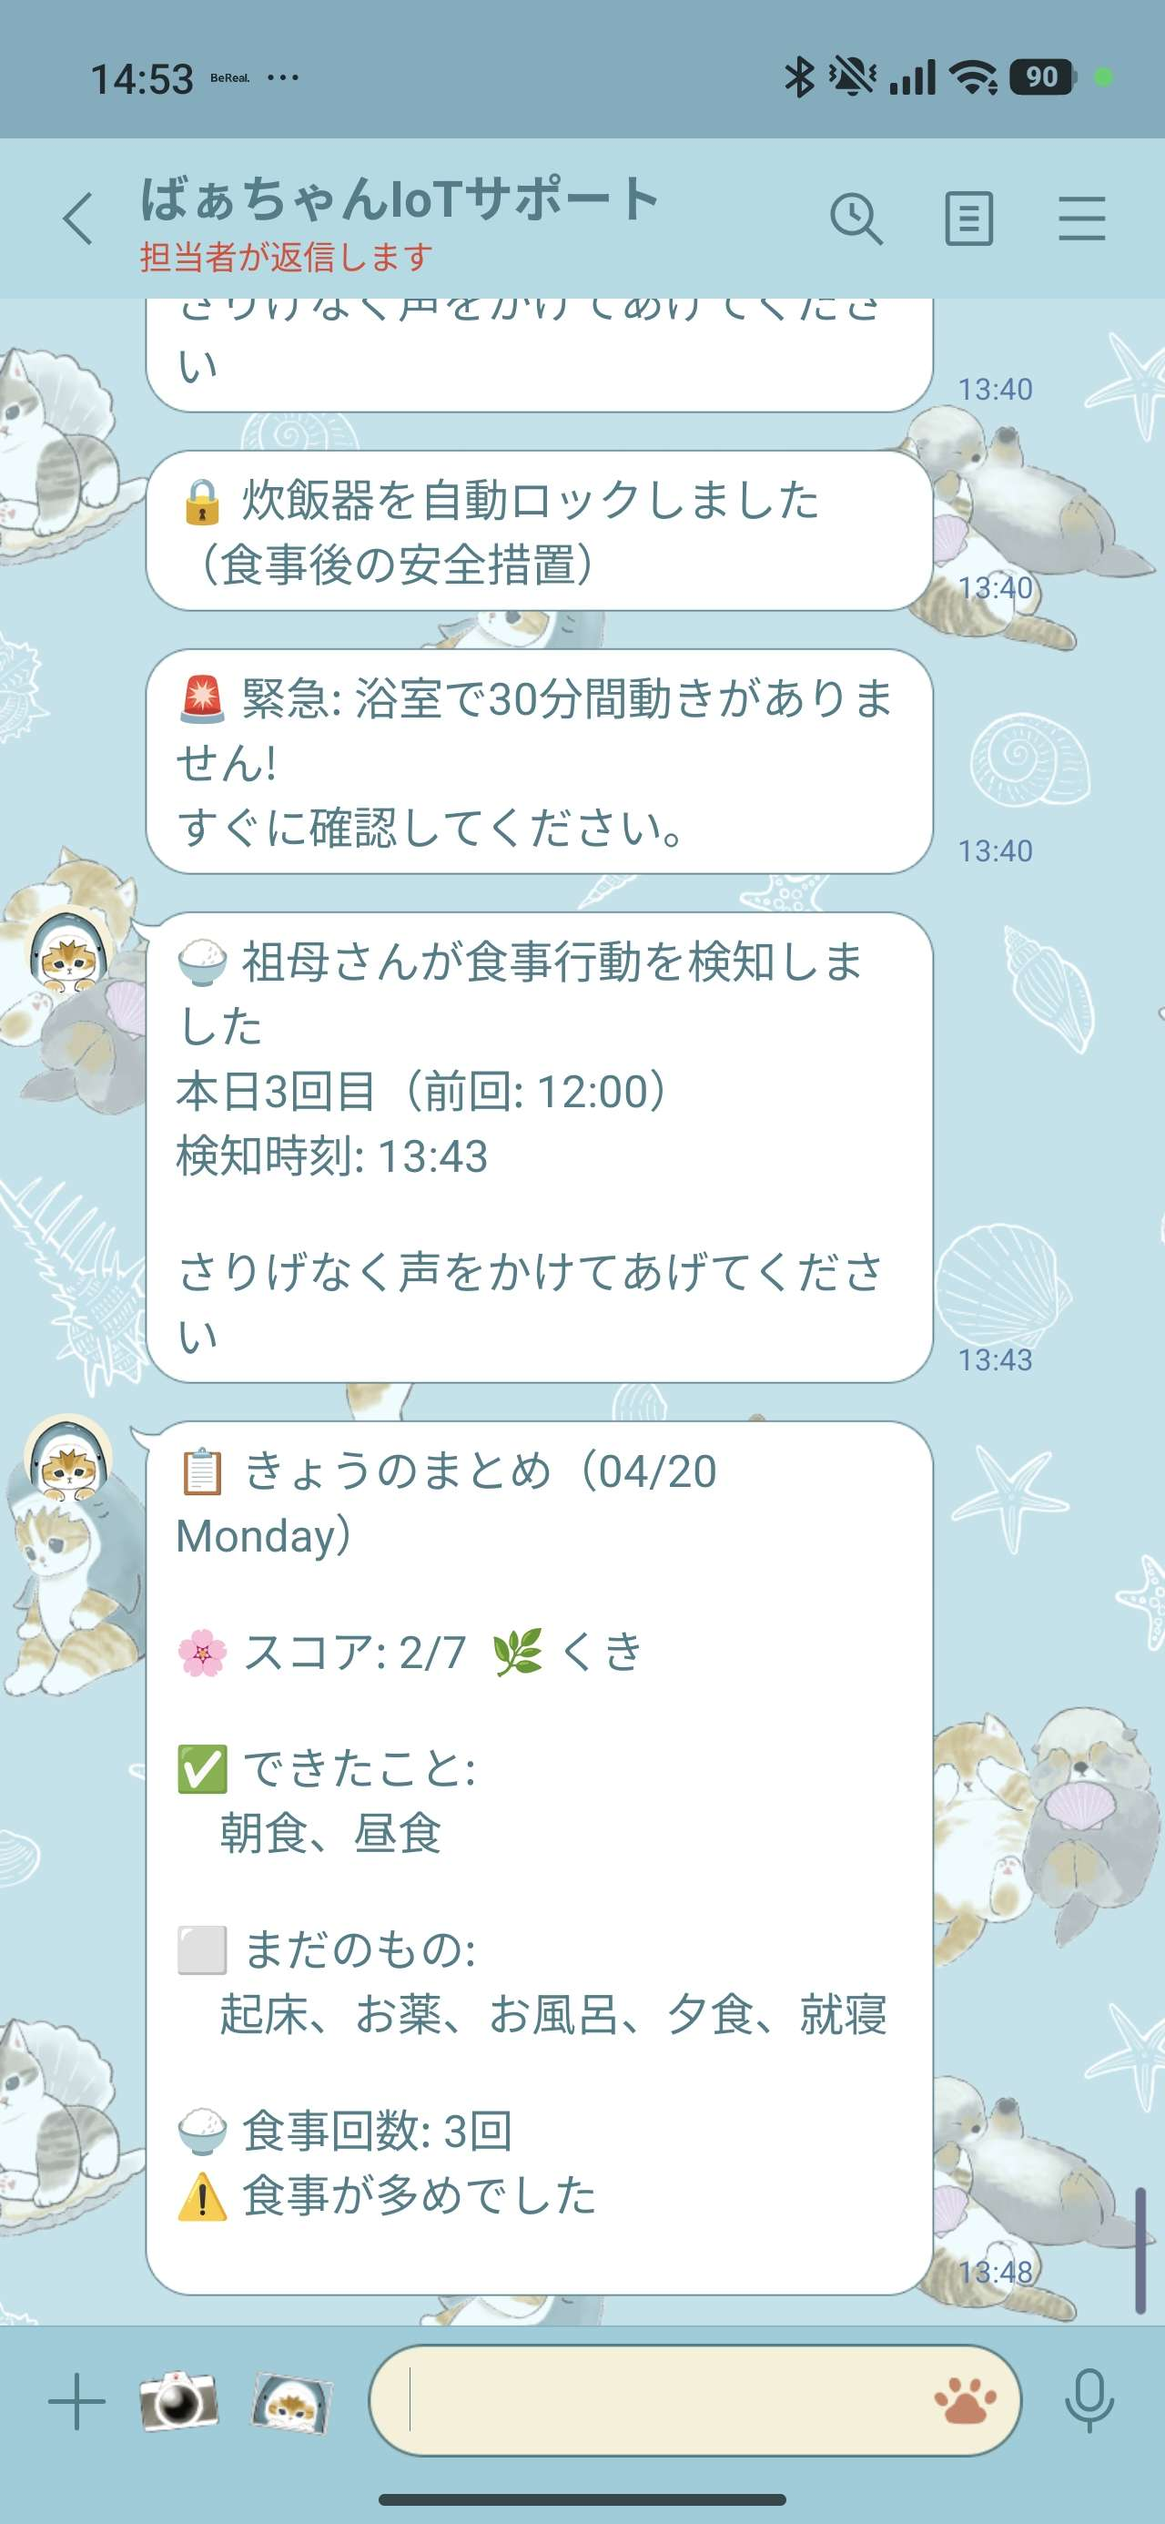
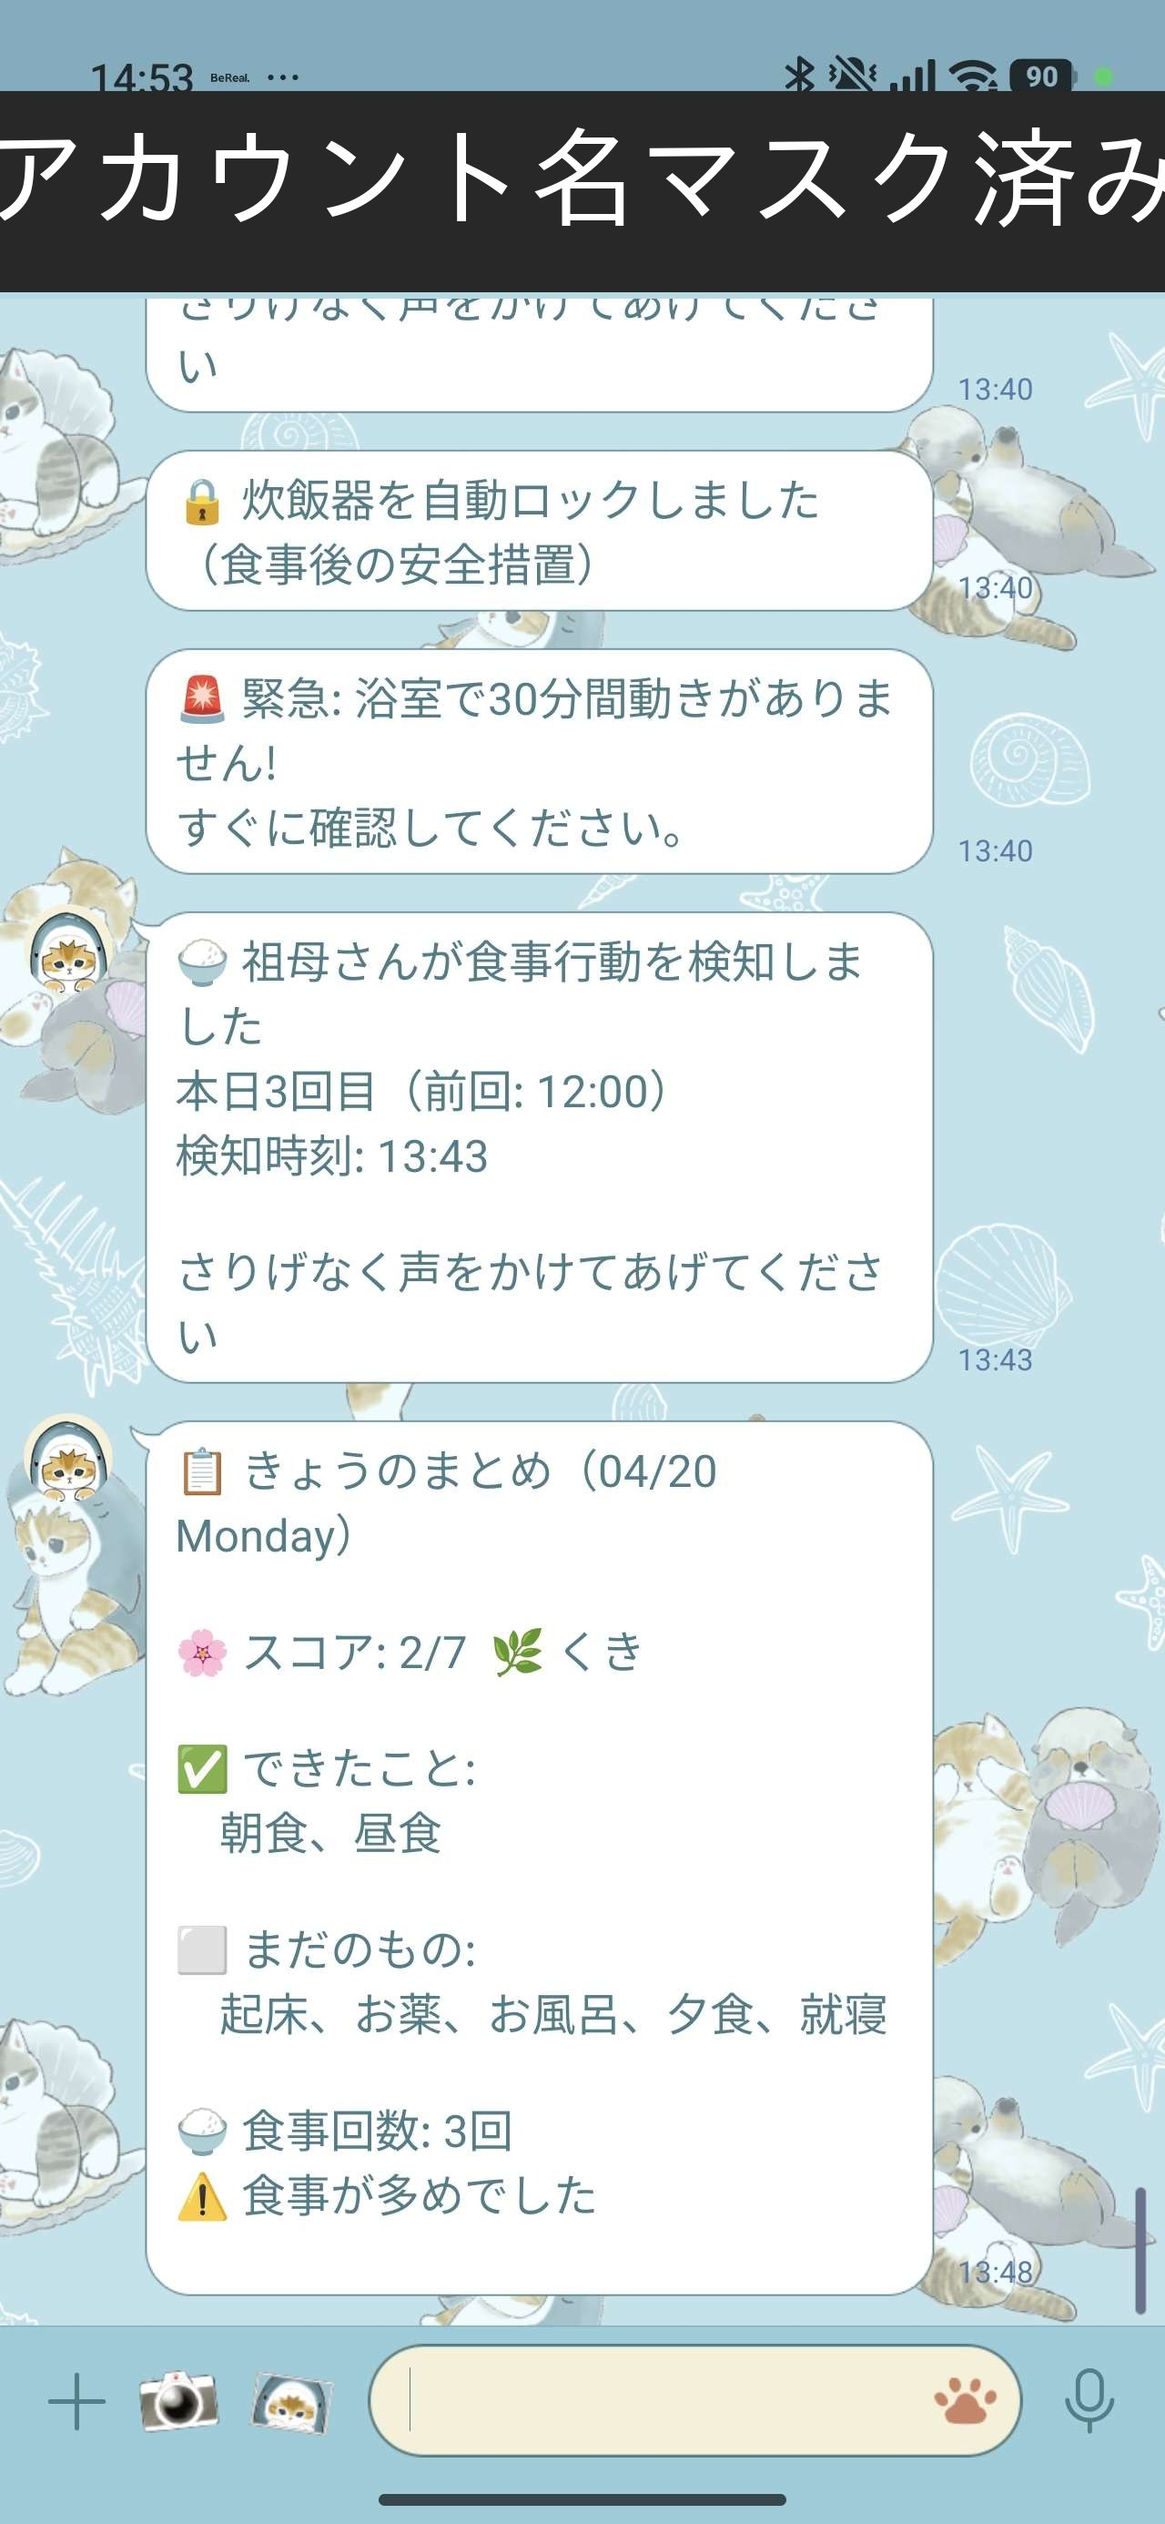
リポジトリ全体を匿名化（個人特定情報・本人プロフィール・機材型番を一般化）
- ユーザー名 tara0 → pi、ホームパス /home/tara0/IoT → /home/pi/iot-life-support
- mDNSホスト名 taraberrypi → raspberrypi
- 本人プロフィール（認知症詳細・浴室での体調急変履歴）を一般化
- 機材型番（炊飯器/IH/ルーター）をプレースホルダーに置換
- スクリーンショット3枚（Cloudflare Quick Tunnel URL、LINE公式アカウント名）を黒塗りマスク
- doc/screenshots/ と src/web/static/screenshots/ の両方を同期
- PDF（FAMILY_GUIDE.pdf）も新ホスト名で再生成
- マスクスクリプト scripts/mask_screenshots.py を追加（再現可能）

GitHubリポジトリURL（tara0kun/iot-life-support）はclone URLとして README.md に残留（公開前提）。

https://claude.ai/code/session_01HZLpVpuAfaMZFCYqnfwqNZ

Changed region(s): [[0.0, 0.031, 1.0, 0.1241]]

diff --git a/src/web/templates/family_manual.html b/src/web/templates/family_manual.html
@@ -324,7 +324,7 @@
   </tr>
   <tr>
     <td>祖母宅Wi-Fiに接続中</td>
-    <td class="cmd">http://taraberrypi.local:8000/family</td>
+    <td class="cmd">http://raspberrypi.local:8000/family</td>
   </tr>
   <tr>
     <td>外出先</td>
@@ -592,7 +592,7 @@
 
 <div class="footer">
   IoT生活サポート 家族用マニュアル ／ 2026年4月版<br>
-  最新版: <code>http://taraberrypi.local:8000/family/manual</code>
+  最新版: <code>http://raspberrypi.local:8000/family/manual</code>
 </div>
 
 </body>

diff --git a/scripts/mask_screenshots.py b/scripts/mask_screenshots.py
@@ -1,0 +1,68 @@
+#!/usr/bin/env python3
+"""Mask sensitive parts of screenshots before publishing.
+
+Hides:
+- Cloudflare Quick Tunnel URL in browser title bar
+- LINE official account name in notification screenshot
+"""
+from pathlib import Path
+from PIL import Image, ImageDraw, ImageFont
+
+ROOT = Path(__file__).resolve().parent.parent
+SHOTS = ROOT / "doc" / "screenshots"
+
+# Try to find a Japanese-capable font for the overlay label
+def find_font(size: int):
+    candidates = [
+        "/usr/share/fonts/truetype/noto/NotoSansCJK-Regular.ttc",
+        "/usr/share/fonts/opentype/noto/NotoSansCJK-Regular.ttc",
+        "/usr/share/fonts/truetype/fonts-japanese-gothic.ttf",
+        "/usr/share/fonts/opentype/ipafont-gothic/ipag.ttf",
+        "/usr/share/fonts/truetype/wqy/wqy-zenhei.ttc",
+        "/usr/share/fonts/truetype/dejavu/DejaVuSans-Bold.ttf",
+    ]
+    for p in candidates:
+        if Path(p).exists():
+            try:
+                return ImageFont.truetype(p, size)
+            except Exception:
+                continue
+    return ImageFont.load_default()
+
+def mask_rect(img: Image.Image, box: tuple, label: str = ""):
+    draw = ImageDraw.Draw(img)
+    x1, y1, x2, y2 = box
+    draw.rectangle(box, fill=(40, 40, 40))
+    if label:
+        font = find_font(int((y2 - y1) * 0.55))
+        try:
+            tw = draw.textlength(label, font=font)
+        except AttributeError:
+            tw, _ = font.getsize(label)
+        tx = x1 + ((x2 - x1) - tw) // 2
+        ty = y1 + ((y2 - y1) - int((y2 - y1) * 0.7)) // 2
+        draw.text((tx, ty), label, fill=(255, 255, 255), font=font)
+
+# All screenshots are 1280 x 2772
+TARGETS = [
+    # (filename, [(x1, y1, x2, y2, label), ...])
+    ("family_dashboard.jpg", [
+        # URL bar with trycloudflare.com link (status bar to just above blue header)
+        (0, 110, 1280, 320, "[公開URLマスク済み]"),
+    ]),
+    ("tablet_clock_alerts.jpg", [
+        (0, 180, 1280, 410, "[公開URLマスク済み]"),
+    ]),
+    ("line_notifications.jpg", [
+        # LINE chat header showing official-account name (extend further down to fully cover)
+        (0, 100, 1280, 320, "[アカウント名マスク済み]"),
+    ]),
+]
+
+for name, boxes in TARGETS:
+    src = SHOTS / name
+    img = Image.open(src).convert("RGB")
+    for *box, label in boxes:
+        mask_rect(img, tuple(box), label)
+    img.save(src, "JPEG", quality=88)
+    print(f"masked: {src.name}")

diff --git a/PROGRESS.md b/PROGRESS.md
@@ -1,4 +1,4 @@
-# 認知症祖母IoTサポート プロジェクト 進捗記録
+# 高齢者見守りIoTサポート プロジェクト 進捗記録
 
 最終更新: 2026-04-24
 
@@ -24,9 +24,9 @@
 4. **全センサー統合テスト** — monitor.py 通しで DB → UI → LINE通知まで
 5. **cron追加**（GW前に有効化推奨）:
    ```cron
-   */30 7-22 * * *  cd ~/IoT && venv/bin/python scripts/scheduled_notify.py care_tasks
-   0 22 * * 0       cd ~/IoT && venv/bin/python scripts/weekly_report.py
-   */10 * * * *     cd ~/IoT && venv/bin/python scripts/anomaly_check.py
+   */30 7-22 * * *  cd ~/iot-life-support && venv/bin/python scripts/scheduled_notify.py care_tasks
+   0 22 * * 0       cd ~/iot-life-support && venv/bin/python scripts/weekly_report.py
+   */10 * * * *     cd ~/iot-life-support && venv/bin/python scripts/anomaly_check.py
    ```
 
 ### 直近実装（2026-04-22）
@@ -68,8 +68,8 @@
 
 ## 🎯 プロジェクトの目的
 
-認知症の祖母の日常生活をIoTでサポートする。設計原則：
-- 祖母に「監視されている」と気づかせない
+高齢者の日常生活をIoTでサポートする。設計原則：
+- 本人に「監視されている」と気づかせない
 - 直接指摘・命令せず、自分の記録帳として提示する
 - 機械の不調に見せて物理的に阻止する
 - **家族の操作（編集・バイパス）は祖母に絶対知られない**
@@ -87,7 +87,7 @@
 ## ✅ 2026-04-15 に行ったこと
 
 ### 環境構築
-- [x] プロジェクトディレクトリ `/home/tara0/IoT/` 作成
+- [x] プロジェクトディレクトリ `/home/pi/iot-life-support/` 作成
 - [x] Python venv、python-kasa、FastAPI等インストール
 - [x] `.env` / `.gitignore` / `.env.example` 作成
 
@@ -101,7 +101,7 @@
 2. 検知方式：カメラ＋センサーのハイブリッド
 3. 多層防御モデル（気づかせる→物理阻止→家族通知→環境設計）
 4. 案A＋B統合（宣言型アンロック＋顔認識ゲート）
-5. 祖母UI（`/tablet`）と家族UI（`/family`）の完全分離
+5. 本人UI（`/tablet`）と家族UI（`/family`）の完全分離
 6. 全家族メンバーの個別行動記録
 
 ### 資料作成
@@ -134,8 +134,8 @@
 #### ⚠ P110M (Matter版) の重要な技術情報
 - P110Mは**TPAP暗号化**を使用しており、python-kasa/tapoライブラリでは直接接続不可
 - **python-matter-server** 経由でMatterプロトコルを使い接続に成功
-- Matterサーバ: `matter-server --storage-path /home/tara0/IoT/data/matter --port 5580 --bluetooth-adapter 0`
-- Matterサーバ起動には `/data/` ディレクトリが必要（`sudo mkdir -p /data && sudo chown tara0:tara0 /data`）
+- Matterサーバ: `matter-server --storage-path /home/pi/iot-life-support/data/matter --port 5580 --bluetooth-adapter 0`
+- Matterサーバ起動には `/data/` ディレクトリが必要（`sudo mkdir -p /data && sudo chown pi:pi /data`）
 - WebSocket API: `ws://localhost:5580/ws`
 - 電力値: `attrs["1/144/8"]` (mW単位 → ÷1000でW)
 - ON/OFF: `attrs["1/6/0"]`
@@ -278,12 +278,12 @@
 - [x] タブレットUI表示確認（スタンプ、さいごにたべたのは、次の予定）
 - [x] 家族UI表示確認（イベント一覧、人物フィルタ、編集）
 
-### 祖母宅の事前調査
+### 本人宅の事前調査
 母からの写真で判明：
-- [x] **炊飯器**: ZOJIRUSHI NW-VC10（プラグ式）→ P110M制御可、しきい値100W
-- [x] **IHコンロ**: HITACHI HT-330S（ビルトイン）→ P110M不可、Phase 1対象外
+- [x] **炊飯器**: [炊飯器型番は.envに記載]（プラグ式）→ P110M制御可、しきい値100W
+- [x] **IHコンロ**: [IH型番は.envに記載]（ビルトイン）→ P110M不可、Phase 1対象外
 - [x] **冷蔵庫**: 6ドア観音開き → T110でドア開閉検知可
-- [x] **Wi-Fi**: I-O DATA [ルーター型番], SSID=`[.envに記載]`
+- [x] **Wi-Fi**: [ルーター情報は.envに記載], SSID=`[.envに記載]`
 - [x] **カメラ設置候補**: 壁時計の横（キッチン全体を見渡せる高い位置）
 - [x] Wi-Fi事前登録スクリプト (`scripts/setup_grandma_wifi.sh`) 作成済
 - [x] mDNS (`[hostname].local`) 既に有効 → IP変更時も `http://[hostname].local:8000/tablet` でアクセス可
@@ -474,7 +474,7 @@
 
 | ブランチ | 用途 | 運用ルール |
 |---------|------|-----------|
-| **main** | 安定版・本番 | 祖母宅ラズパイはこのブランチを使用。テスト済みのコードのみマージ |
+| **main** | 安定版・本番 | 本人宅ラズパイはこのブランチを使用。テスト済みのコードのみマージ |
 | **dev** | 開発中・テスト中 | 普段の開発作業はここで行う。安定したら `main` にマージ |
 | **future** | 新機能・今後の進展 | Phase 2以降の新機能開発。実装が安定したら `dev` にマージ |
 
@@ -484,12 +484,12 @@ future（新機能開発）
   ↓ 実装完了・テスト通過
 dev（開発・テスト）
   ↓ 安定動作確認
-main（本番・祖母宅）
+main（本番・本人宅）
 ```
 
 #### 注意事項
 - **main に直接コミットしない** — 必ず `dev` 経由でマージ
-- **祖母宅ラズパイは `main` を `git pull`** して更新
+- **本人宅ラズパイは `main` を `git pull`** して更新
 - **`future` は実験的なコードも許容** — 壊れても `dev`/`main` に影響しない
 - ブランチ切り替え: `git checkout dev`（開発時）、`git checkout main`（本番確認時）
 
@@ -649,7 +649,7 @@ main（本番・祖母宅）
 - [ ] **P110M 2台目のセットアップ**（IHはビルトインなので別用途検討）
 - [ ] **T110 残り2台 + T100 のH100ペアリング**
 - [ ] **祖母用タブレット端末の調達**
-- [ ] **祖母宅Wi-Fi接続テスト**（`scripts/setup_grandma_wifi.sh` 実行）
+- [ ] **本人宅Wi-Fi接続テスト**（`scripts/setup_grandma_wifi.sh` 実行）
 
 ### 🟢 低優先度（運用開始後でもOK → `future` ブランチで開発）
 - [ ] SwitchBot Lock（冷蔵庫用物理ロック）
@@ -700,7 +700,7 @@ GW投入後、運用が安定してから着手する候補。優先度と見積
 ## 📁 現在のプロジェクト構成
 
 ```
-/home/tara0/IoT/
+/home/pi/iot-life-support/
 ├── PROGRESS.md              ← このファイル
 ├── GW_SETUP.md              ← GW設置手順書（4/20作成）
 ├── handoff_prompt.md        ← 初期仕様書
@@ -751,7 +751,7 @@ GW投入後、運用が安定してから着手する候補。優先度と見積
 │   ├── scheduled_notify.py  ← LINE定期通知（お薬・お風呂・まとめ）
 │   ├── start_tunnel.sh      ← Cloudflareトンネル起動＋LINE通知
 │   ├── health_check.sh      ← ヘルスチェック（5分おき）
-│   ├── setup_grandma_wifi.sh ← 祖母宅Wi-Fi事前登録
+│   ├── setup_grandma_wifi.sh ← 本人宅Wi-Fi事前登録
 │   ├── test_camera.py       ← カメラ接続テスト
 │   ├── test_p110m.py        ← P110M接続テスト
 │   ├── build_proposal.py    ← パワポ生成
@@ -799,7 +799,7 @@ sudo journalctl -u iot-web -f
 source venv/bin/activate
 
 # Matterサーバ（systemdで動作中なら不要）
-nohup matter-server --storage-path /home/tara0/IoT/data/matter \
+nohup matter-server --storage-path /home/pi/iot-life-support/data/matter \
   --port 5580 --bluetooth-adapter 0 > logs/matter.log 2>&1 &
 
 # Webサーバ（--reloadで開発）
@@ -841,19 +841,19 @@ python scripts/seed_mock_data.py --clear --scenario 4  # 充実した1日
 2. **Matterサーバには`/data/`ディレクトリが必要**（sudo作成済み）
 3. **C220カメラアカウントはTapoアカウントと別**（.envのCAMERA_USERNAME/PASSWORD）
 4. **Wi-Fiは2.4GHz**（`[自宅Wi-Fi SSID]`）。全Tapo機器が同じSSID
-5. **祖母UIと家族UIはDOMレベルで分離**。編集機能は家族UIにのみ存在
+5. **本人UIと家族UIはDOMレベルで分離**。編集機能は家族UIにのみ存在
 6. **家族フィードバック**: タブレット入力は期待できない→センサー自動検知メイン＋ゲーミフィケーション
 7. **家族パスワード**: [.envに記載]（.envのFAMILY_PASSWORDで変更可）
 8. **face_recognitionはsetuptools<70が必要**（pkg_resources依存）
 9. **GW投入目標: 2026-04-29〜05-06**
-10. **IHコンロはビルトイン型**（HITACHI HT-330S）→ P110M不可、Phase 1対象外
-11. **祖母宅Wi-Fi**: SSID=`[.envに記載]`, PW=`[.envに記載]`（.envに記録済）
+10. **IHコンロはビルトイン型**（[IH型番は.envに記載]）→ P110M不可、Phase 1対象外
+11. **本人宅Wi-Fi**: SSID=`[.envに記載]`, PW=`[.envに記載]`（.envに記録済）
 12. **mDNS有効**: `[hostname].local` でラズパイにアクセス可（IP変更に強い）
 13. **LINE公式アカウント**: [LINE公式アカウントID]（通知用）
 14. **タブレットトークン**: `.env`の`TABLET_TOKEN`（外部アクセス用）
 15. **Cloudflare Tunnel**: アカウントなし版（Quick Tunnel）。URLは再起動で変わるがLINEで自動通知
 16. **crontab登録済み**: 定期通知(9,12,18,22時)、トンネル自動起動、DBバックアップ(3時)、ヘルスチェック(5分おき)
-17. **お風呂で祖母が意識喪失した過去あり** → T110+T100による浴室監視は安全面で重要
+17. **浴室での体調急変リスクあり** → T110+T100による浴室監視は安全面で重要
 18. **浴室ドアのT110エイリアスは「浴室ドア」にリネーム必須**（monitor.pyが名前で判別）
 19. **Gitブランチ**: main（本番）/ dev（開発）/ future（新機能）の3ブランチ運用。mainに直接コミット禁止
 20. **GitHub CLI**: `gh` インストール済み、HTTPS認証済み。リポジトリ: `tara0kun/iot-life-support`

diff --git a/README.md b/README.md
@@ -1,6 +1,6 @@
 # IoT生活サポートシステム
 
-認知症が進行した高齢者の日常生活をIoTセンサーでさりげなくサポートするシステム。
+高齢者の日常生活をIoTセンサーでさりげなくサポートするシステム。
 Raspberry Pi を中枢として、スマートプラグ・開閉センサー・モーションセンサー・カメラを統合し、生活リズムの記録・注意喚起・家族への通知を自動で行う。
 
 ## 設計思想
@@ -208,7 +208,7 @@ crontab -e
 
 | ブランチ | 用途 |
 |---|---|
-| `main` | 安定版・本番（祖母宅ラズパイで稼働） |
+| `main` | 安定版・本番（設置先ラズパイで稼働） |
 | `dev` | 開発・テスト用（普段の作業はここ） |
 | `future` | 新機能・実験的コード（Phase 2以降） |
 

diff --git a/FAMILY_GUIDE.md b/FAMILY_GUIDE.md
@@ -96,7 +96,7 @@ LINE公式アカウントに **そのまま日本語で送るだけ** です。
 
 | 場所 | アドレス |
 |---|---|
-| **おばあちゃんの家のWi-Fiにいる時** | `http://taraberrypi.local:8000/family` |
+| **おばあちゃんの家のWi-Fiにいる時** | `http://raspberrypi.local:8000/family` |
 | **外出先** | LINEで届く最新URLの末尾に `/family` をつける |
 
 ログイン画面が出るので、**家族用パスワード**（家族グループに共有済み）を入力。
